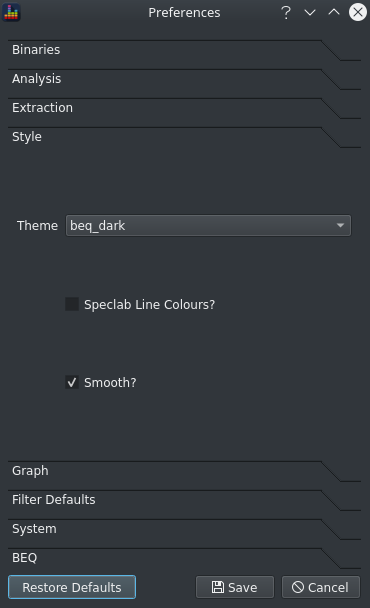
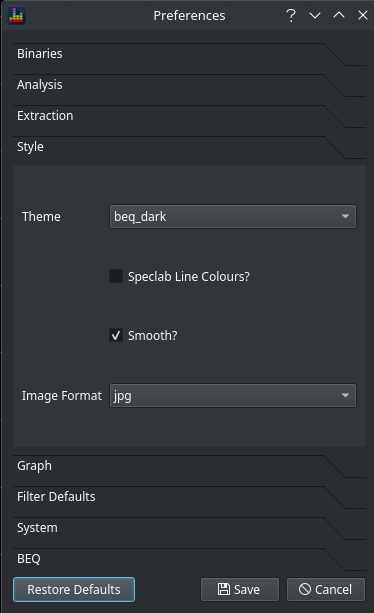
option to choose default export image format #458

diff --git a/src/main/python/ui/preferences.py b/src/main/python/ui/preferences.py
@@ -158,19 +158,27 @@ class Ui_preferencesDialog(object):
         self.stylePage.setObjectName("stylePage")
         self.stylePane = QtWidgets.QGridLayout(self.stylePage)
         self.stylePane.setObjectName("stylePane")
-        self.themeLabel = QtWidgets.QLabel(self.stylePage)
-        self.themeLabel.setObjectName("themeLabel")
-        self.stylePane.addWidget(self.themeLabel, 0, 0, 1, 1)
+        self.smoothGraphs = QtWidgets.QCheckBox(self.stylePage)
+        self.smoothGraphs.setObjectName("smoothGraphs")
+        self.stylePane.addWidget(self.smoothGraphs, 2, 1, 1, 1)
         self.themePicker = QtWidgets.QComboBox(self.stylePage)
         self.themePicker.setObjectName("themePicker")
         self.themePicker.addItem("")
         self.stylePane.addWidget(self.themePicker, 0, 1, 1, 1)
+        self.themeLabel = QtWidgets.QLabel(self.stylePage)
+        self.themeLabel.setObjectName("themeLabel")
+        self.stylePane.addWidget(self.themeLabel, 0, 0, 1, 1)
         self.speclabLineStyle = QtWidgets.QCheckBox(self.stylePage)
         self.speclabLineStyle.setObjectName("speclabLineStyle")
         self.stylePane.addWidget(self.speclabLineStyle, 1, 1, 1, 1)
-        self.smoothGraphs = QtWidgets.QCheckBox(self.stylePage)
-        self.smoothGraphs.setObjectName("smoothGraphs")
-        self.stylePane.addWidget(self.smoothGraphs, 2, 1, 1, 1)
+        self.imageFormat = QtWidgets.QComboBox(self.stylePage)
+        self.imageFormat.setObjectName("imageFormat")
+        self.imageFormat.addItem("")
+        self.imageFormat.addItem("")
+        self.stylePane.addWidget(self.imageFormat, 3, 1, 1, 1)
+        self.imageFormatLabel = QtWidgets.QLabel(self.stylePage)
+        self.imageFormatLabel.setObjectName("imageFormatLabel")
+        self.stylePane.addWidget(self.imageFormatLabel, 3, 0, 1, 1)
         self.stylePane.setColumnStretch(1, 1)
         self.toolBox.addItem(self.stylePage, "")
         self.graphPage = QtWidgets.QWidget()
@@ -322,7 +330,7 @@ class Ui_preferencesDialog(object):
         self.verticalLayout.addWidget(self.buttonBox)
 
         self.retranslateUi(preferencesDialog)
-        self.toolBox.setCurrentIndex(7)
+        self.toolBox.setCurrentIndex(0)
         self.buttonBox.accepted.connect(preferencesDialog.accept) # type: ignore
         self.buttonBox.rejected.connect(preferencesDialog.reject) # type: ignore
         self.ffmpegDirectoryPicker.clicked.connect(preferencesDialog.showFfmpegDirectoryPicker) # type: ignore
@@ -405,10 +413,13 @@ class Ui_preferencesDialog(object):
         self.decimate.setText(_translate("preferencesDialog", "Decimate?"))
         self.includeSubtitles.setText(_translate("preferencesDialog", "Add Subtitles?"))
         self.toolBox.setItemText(self.toolBox.indexOf(self.extractionPage), _translate("preferencesDialog", "Extraction"))
-        self.themeLabel.setText(_translate("preferencesDialog", "Theme"))
-        self.themePicker.setItemText(0, _translate("preferencesDialog", "default"))
-        self.speclabLineStyle.setText(_translate("preferencesDialog", "Speclab Line Colours?"))
         self.smoothGraphs.setText(_translate("preferencesDialog", "Smooth?"))
+        self.themePicker.setItemText(0, _translate("preferencesDialog", "default"))
+        self.themeLabel.setText(_translate("preferencesDialog", "Theme"))
+        self.speclabLineStyle.setText(_translate("preferencesDialog", "Speclab Line Colours?"))
+        self.imageFormat.setItemText(0, _translate("preferencesDialog", "png"))
+        self.imageFormat.setItemText(1, _translate("preferencesDialog", "jpg"))
+        self.imageFormatLabel.setText(_translate("preferencesDialog", "Image Format"))
         self.toolBox.setItemText(self.toolBox.indexOf(self.stylePage), _translate("preferencesDialog", "Style"))
         self.freqIsLogScale.setText(_translate("preferencesDialog", "Frequency Axis Log Scale?"))
         self.precalcSmoothing.setText(_translate("preferencesDialog", "Precalculate Octave Smoothing?"))

diff --git a/src/main/python/model/waveform.py b/src/main/python/model/waveform.py
@@ -10,7 +10,7 @@ from qtpy.QtGui import QFont
 from qtpy.QtWidgets import QDialog
 
 from model.magnitude import MagnitudeModel
-from model.preferences import BM_LPF_OPTIONS, BASS_MANAGEMENT_LPF_FS
+from model.preferences import BM_LPF_OPTIONS, BASS_MANAGEMENT_LPF_FS, STYLE_IMAGE_FORMAT_DEFAULT
 from model.signal import SignalDialog, SIGNAL_SOURCE_FILE, SIGNAL_CHANNEL, SingleChannelSignalData
 from ui.stats import Ui_signalStatsDialog
 
@@ -50,7 +50,7 @@ class WaveformController:
         self.__source_file = source_file
         self.__selector = signal_selector
         self.__waveform_chart_model = WaveformModel(waveform_chart, crest_factor, rms_level, headroom, start_time,
-                                                    end_time, y_min, y_max, self.__on_x_range_change)
+                                                    end_time, y_min, y_max, self.__on_x_range_change, preferences)
         spectrum_chart.vbl.setContentsMargins(1, 1, 1, 1)
         spectrum_chart.setVisible(False)
         self.__magnitude_model = MagnitudeModel('spectrum', spectrum_chart, preferences, self.get_curve_data,
@@ -383,8 +383,9 @@ class WaveformModel:
     Displays and interacts with a waveform that is linked to the spectrum view.
     '''
 
-    def __init__(self, chart, crest_factor, rms_level, headroom, x_min, x_max, y_min, y_max, on_x_range_change):
+    def __init__(self, chart, crest_factor, rms_level, headroom, x_min, x_max, y_min, y_max, on_x_range_change, prefs):
         self.idx = 0
+        self.__prefs = prefs
         self.__chart = chart
         self.__on_x_range_change = on_x_range_change
         self.__x_min = x_min
@@ -422,7 +423,8 @@ class WaveformModel:
         exports the waveform chart.
         '''
         from app import SaveChartDialog, PyQtGraphExportProcessor
-        SaveChartDialog(self.__chart, 'waveform', self.__chart, PyQtGraphExportProcessor()).exec()
+        SaveChartDialog(self.__chart, 'waveform', self.__chart, PyQtGraphExportProcessor(),
+                        image_format=self.__prefs.get(STYLE_IMAGE_FORMAT_DEFAULT)).exec()
 
     @property
     def rms(self):

diff --git a/src/main/python/model/analysis.py b/src/main/python/model/analysis.py
@@ -18,7 +18,7 @@ from model.preferences import GRAPH_X_MIN, GRAPH_X_MAX, POINT, ELLIPSE, SPECTROG
     AUDIO_ANALYSIS_MARKER_SIZE, AUDIO_ANALYSIS_MARKER_TYPE, AUDIO_ANALYSIS_ELLIPSE_WIDTH, AUDIO_ANALYSIS_ELLIPSE_HEIGHT, \
     AUDIO_ANALYIS_MIN_FREQ, AUDIO_ANALYIS_MAX_UNFILTERED_FREQ, AUDIO_ANALYIS_MAX_FILTERED_FREQ, \
     AUDIO_ANALYSIS_COLOUR_MAX, AUDIO_ANALYSIS_COLOUR_MIN, AUDIO_ANALYSIS_SIGNAL_MIN, AUDIO_ANALYSIS_GEOMETRY, \
-    EXTRACTION_OUTPUT_DIR
+    EXTRACTION_OUTPUT_DIR, STYLE_IMAGE_FORMAT_DEFAULT
 from model.signal import select_file, readWav
 from ui.analysis import Ui_analysisDialog
 
@@ -207,12 +207,12 @@ class AnalyseSignalDialog(QDialog, Ui_analysisDialog):
         selected_data = self.__get_signal_data(self.leftSignal.currentText())
         if self.analysisTabs.currentIndex() == 0:
             SaveChartDialog(self, 'peak spectrum', self.spectrumChart.canvas.figure,
-                            MatplotlibExportProcessor(self.spectrumChart.canvas.figure),
-                            selected_data).exec()
+                            MatplotlibExportProcessor(self.spectrumChart.canvas.figure), signal_data=selected_data,
+                            image_format=self.__preferences.get(STYLE_IMAGE_FORMAT_DEFAULT)).exec()
         elif self.analysisTabs.currentIndex() == 1:
             SaveChartDialog(self, 'waveform', self.waveformChart.canvas.figure,
-                            MatplotlibExportProcessor(self.waveformChart.canvas.figure),
-                            selected_data).exec()
+                            MatplotlibExportProcessor(self.waveformChart.canvas.figure), signal_data=selected_data,
+                            image_format=self.__preferences.get(STYLE_IMAGE_FORMAT_DEFAULT)).exec()
 
     def select_wav_file(self):
         '''

diff --git a/src/main/python/model/preferences.py b/src/main/python/model/preferences.py
@@ -111,6 +111,7 @@ SCREEN_WINDOW_STATE = 'screen/window_state'
 
 STYLE_MATPLOTLIB_THEME_DEFAULT = 'beq_dark'
 STYLE_MATPLOTLIB_THEME = 'style/matplotlib_theme'
+STYLE_IMAGE_FORMAT_DEFAULT = 'style/image_format'
 
 DISPLAY_SHOW_LEGEND = 'display/show_legend'
 DISPLAY_SHOW_FILTERS = 'display/show_filters'
@@ -285,6 +286,7 @@ DEFAULT_PREFS = {
     REPORT_FILTER_FONT_SIZE: matplotlib.rcParams['font.size'],
     REPORT_LAYOUT_HSPACE: matplotlib.rcParams['figure.subplot.hspace'],
     REPORT_LAYOUT_WSPACE: matplotlib.rcParams['figure.subplot.wspace'],
+    STYLE_IMAGE_FORMAT_DEFAULT: 'png',
     SYSTEM_CHECK_FOR_UPDATES: True,
     SYSTEM_CHECK_FOR_BETA_UPDATES: False,
     XO_GRAPH_X_MIN: 10,
@@ -512,6 +514,7 @@ class PreferencesDialog(QDialog, Ui_preferencesDialog):
         self.checkForUpdates.setChecked(self.__preferences.get(SYSTEM_CHECK_FOR_UPDATES))
         self.checkForBetaUpdates.setChecked(self.__preferences.get(SYSTEM_CHECK_FOR_BETA_UPDATES))
         self.smoothGraphs.setChecked(self.__preferences.get(DISPLAY_SMOOTH_GRAPHS))
+        self.imageFormat.setCurrentText(self.__preferences.get(STYLE_IMAGE_FORMAT_DEFAULT))
 
         self.monoMix.setChecked(self.__preferences.get(EXTRACTION_MIX_MONO))
         self.decimate.setChecked(self.__preferences.get(EXTRACTION_DECIMATE))
@@ -658,6 +661,7 @@ class PreferencesDialog(QDialog, Ui_preferencesDialog):
         self.__preferences.set(BEQ_DOWNLOAD_DIR, self.beqFiltersDir.text())
         self.__preferences.set(BASS_MANAGEMENT_LPF_FS, self.bmlpfFreq.value())
         self.__preferences.set(DISPLAY_SMOOTH_PRECALC, self.precalcSmoothing.isChecked())
+        self.__preferences.set(STYLE_IMAGE_FORMAT_DEFAULT, self.imageFormat.currentText())
 
         QDialog.accept(self)
 

diff --git a/src/main/python/app.py b/src/main/python/app.py
@@ -1145,7 +1145,7 @@ class SaveChartDialog(QDialog, Ui_saveChartDialog):
     Save Chart dialog
     '''
 
-    def __init__(self, parent, name, figure, processor, signal_data, statusbar=None):
+    def __init__(self, parent, name, figure, processor, signal_data=None, image_format='png', statusbar=None):
         super(SaveChartDialog, self).__init__(parent)
         self.setupUi(self)
         self.name = name
@@ -1157,18 +1157,18 @@ class SaveChartDialog(QDialog, Ui_saveChartDialog):
         self.widthPixels.setValue(self.__x)
         self.heightPixels.setValue(self.__y)
         self.statusbar = statusbar
+        self.image_format = image_format
         self.__dialog = QFileDialog(parent=self)
 
     def accept(self):
-        formats = "Portable Network Graphic (*.png)"
-        output = f'{self.name}.png'
+        output = f'{self.name}.{self.image_format}'
         if self.signal_data:
             from model.signal import SIGNAL_SOURCE_FILE
             p = self.signal_data.signal.metadata.get(SIGNAL_SOURCE_FILE, '')
             if p:
                 from pathlib import Path
-                output = str((Path(p).absolute().parent / (self.signal_data.name + '.png')))
-        file_name = self.__dialog.getSaveFileName(self, 'Export Chart', output, formats)
+                output = str(Path(p).absolute().parent / f'{self.signal_data.name}.{self.image_format}')
+        file_name = self.__dialog.getSaveFileName(self, 'Export Chart', output, 'Images (*.png *.jpeg *.jpg)')
         if file_name:
             output_file = str(file_name[0]).strip()
             if len(output_file) == 0:

diff --git a/src/main/python/model/magnitude.py b/src/main/python/model/magnitude.py
@@ -6,7 +6,7 @@ import numpy as np
 from matplotlib.gridspec import GridSpec
 
 from model.limits import Limits, LimitsDialog, ValuesDialog, DecibelRangeCalculator, configure_freq_axis
-from model.preferences import GRAPH_X_AXIS_SCALE, GRAPH_X_MIN, GRAPH_X_MAX, GRAPH_EXPAND_Y
+from model.preferences import GRAPH_X_AXIS_SCALE, GRAPH_X_MIN, GRAPH_X_MAX, GRAPH_EXPAND_Y, STYLE_IMAGE_FORMAT_DEFAULT
 
 logger = logging.getLogger('magnitude')
 
@@ -163,6 +163,9 @@ class MagnitudeModel:
                  allow_line_resize=False, fill_primary=False, fill_secondary=False, y2_range_calc=None,
                  show_y2_in_legend=True, x_lim: Optional[Tuple[float, float]] = None,
                  x_axis_configurer=configure_freq_axis, x_scale='log'):
+        def img_format():
+            return preferences.get(STYLE_IMAGE_FORMAT_DEFAULT)
+        self.__img_format_provider = img_format
         self.__name = name
         self.__chart = chart
         self.__redraw_listener = redraw_listener
@@ -338,4 +341,5 @@ class MagnitudeModel:
         ''' Exports the chart. '''
         from app import SaveChartDialog, MatplotlibExportProcessor
         SaveChartDialog(self.__chart, self.__name, self.__chart.canvas.figure,
-                        MatplotlibExportProcessor(self.__chart.canvas.figure), statusbar=status_bar).exec()
+                        MatplotlibExportProcessor(self.__chart.canvas.figure),
+                        image_format=self.__img_format_provider(), statusbar=status_bar).exec()

diff --git a/src/main/python/model/report.py b/src/main/python/model/report.py
@@ -22,7 +22,8 @@ from model.preferences import REPORT_TITLE_FONT_SIZE, REPORT_IMAGE_ALPHA, REPORT
     REPORT_LAYOUT_MAJOR_RATIO, REPORT_LAYOUT_MINOR_RATIO, REPORT_CHART_GRID_ALPHA, REPORT_CHART_SHOW_LEGEND, \
     REPORT_GEOMETRY, REPORT_LAYOUT_SPLIT_DIRECTION, REPORT_LAYOUT_TYPE, REPORT_CHART_LIMITS_X0, \
     REPORT_CHART_LIMITS_X_SCALE, REPORT_CHART_LIMITS_X1, REPORT_FILTER_FONT_SIZE, REPORT_FILTER_SHOW_HEADER, \
-    REPORT_GROUP, REPORT_LAYOUT_WSPACE, REPORT_LAYOUT_HSPACE, DISPLAY_SHOW_SIGNALS, DISPLAY_SHOW_FILTERED_SIGNALS
+    REPORT_GROUP, REPORT_LAYOUT_WSPACE, REPORT_LAYOUT_HSPACE, DISPLAY_SHOW_SIGNALS, DISPLAY_SHOW_FILTERED_SIGNALS, \
+    STYLE_IMAGE_FORMAT_DEFAULT
 from model.signal import get_visible_signal_name_filter
 from ui.report import Ui_saveReportDialog
 
@@ -534,7 +535,8 @@ class SaveReportDialog(QDialog, Ui_saveReportDialog):
         report_path = None
         if p:
             from pathlib import Path
-            report_path = str((Path(p).absolute().parent / (self.__selected_signal.name + '.png')))
+            file_name = f'{self.__selected_signal.name}.{self.__preferences.get(STYLE_IMAGE_FORMAT_DEFAULT)}'
+            report_path = str(Path(p).absolute().parent / file_name)
         file_name = QFileDialog.getSaveFileName(parent=self, caption='Export Report', directory=report_path,
                                                 filter=formats)
         return file_name

diff --git a/docs/ui/preferences.md b/docs/ui/preferences.md
@@ -55,6 +55,8 @@ These options influence the look and feel of BEQDesigner.
     * a compatibility mode for speclab users, if checked each peak curve will be rendered in a shade of red while the average will be in a shade of green.
     * if unchecked, peak and average for each signal will be the same colour but colours for each signal will vary accordingly to the theme. 
     * as a rule of thumb, speclab mode is easier to read when viewing a single signal only but becomes unreadable when you have many signals (e.g. a multichannel audio track)
+* Image Format
+    * the default format to use when exporting as a image, choice of png or jpg 
 
 ### Graph
 
